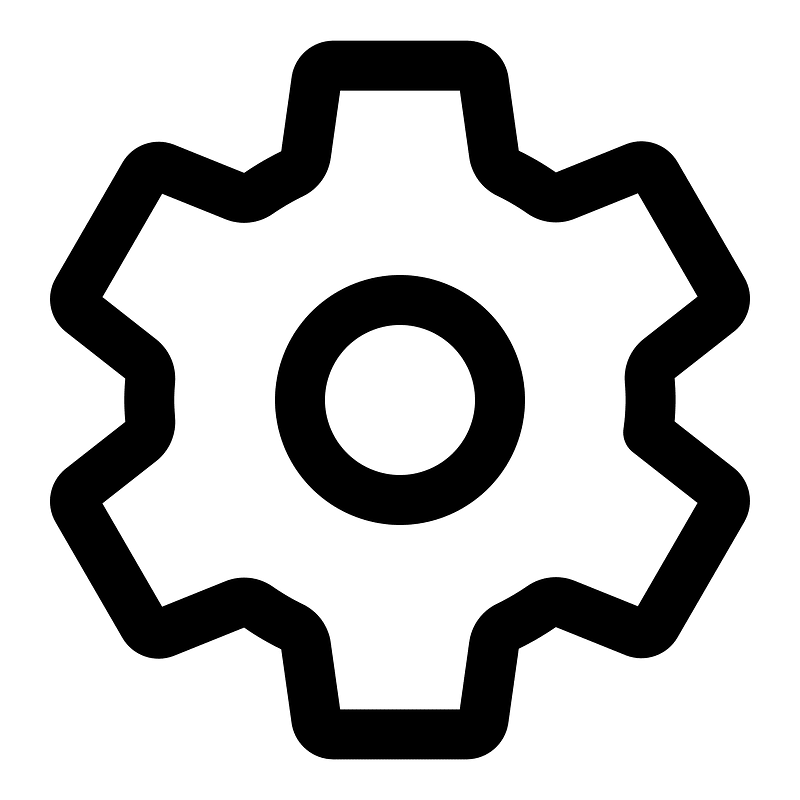
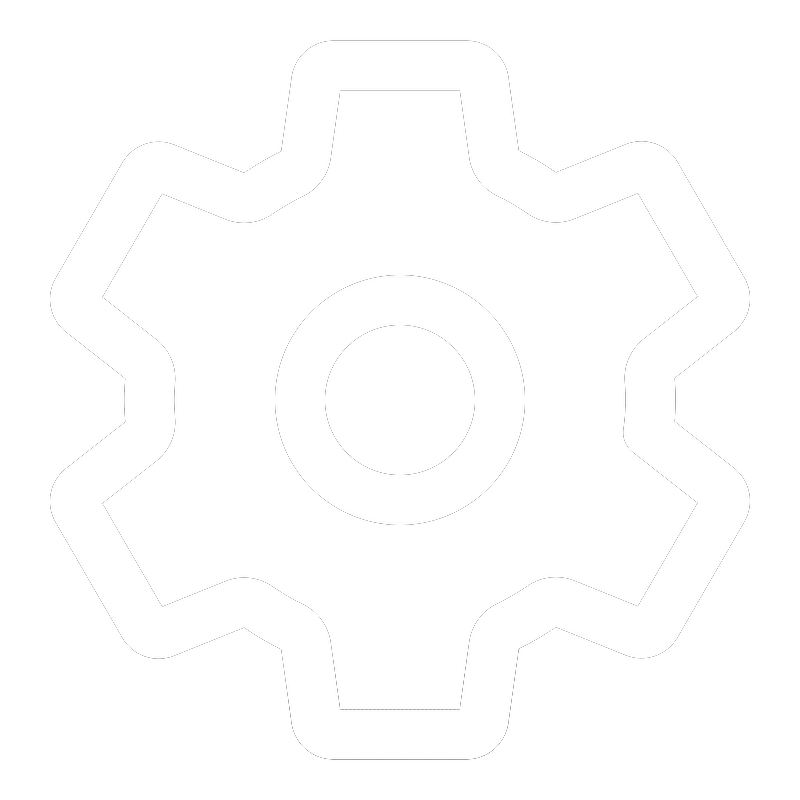
add settings UI

Changed region(s): [[0.0625, 0.0312, 0.9375, 0.9688], [0.3438, 0.3438, 0.6562, 0.6562]]

diff --git a/Pages/Landing.xaml b/Pages/Landing.xaml
@@ -116,5 +116,22 @@
                 Grid.Row="2" Grid.Column="0" Grid.ColumnSpan="3"
                 Background="Black" Margin="0,0,0,0" />
 
+        <Label x:Name="ParticipantID"
+               Grid.Row="2" Grid.Column="1"
+               Content="Participant #"
+               Foreground="LightGray"
+               HorizontalContentAlignment="Center"
+               VerticalContentAlignment="Center"
+               FontFamily="Roboto" FontSize="18"
+               FontStyle="Italic" FontWeight="DemiBold"/>
+
+        <cc:ToolbarButton x:Name="Settings"
+                          Grid.Row="2" Grid.Column="2"
+                          MaxWidth="50"
+                          Margin="0,0,10,0"
+                          VerticalAlignment="Center"
+                          HorizontalAlignment="Right"
+                          ImageSource="/Images/UI/Settings.png"/>
+
     </Grid>
 </Page>
